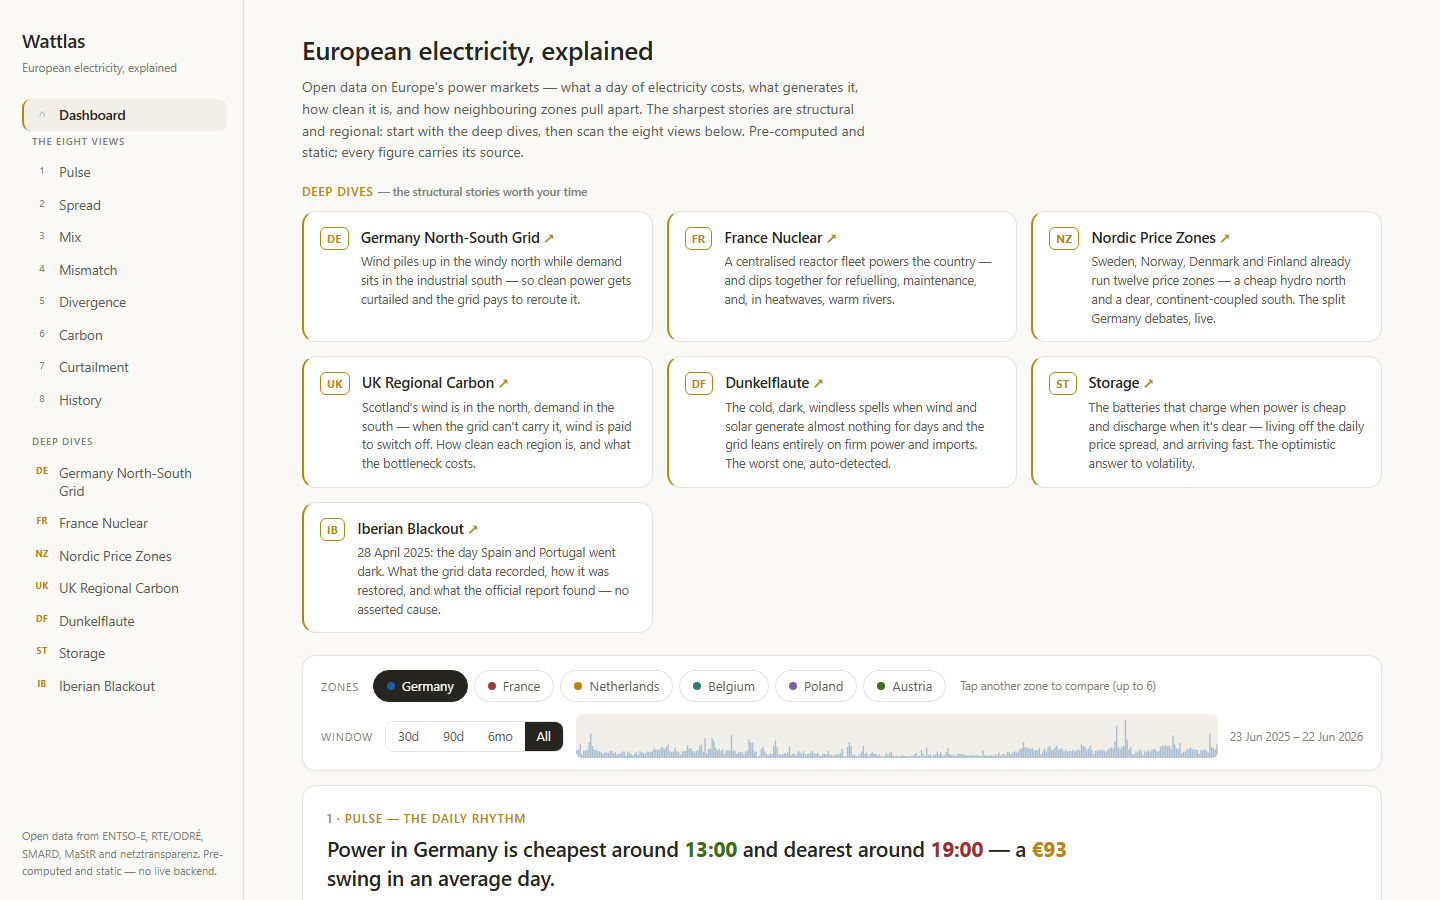
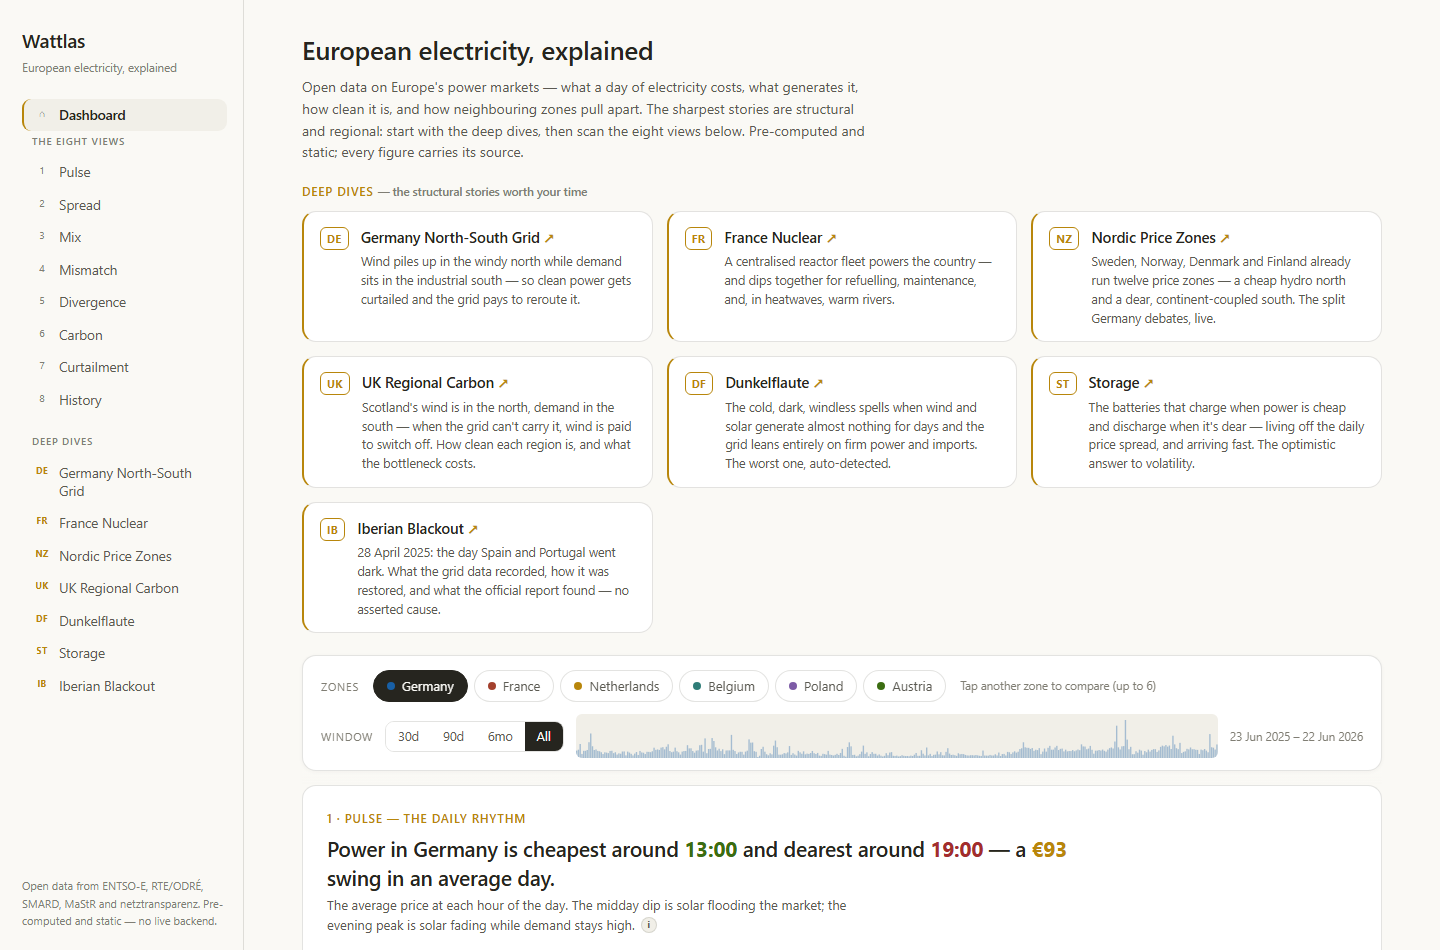
Showcase: remove phone mockups, emphasize multi-country, rework scene layouts
Refinements to frontend/showcase.html per review:
- Drop the phone-screen overlays (scenes 3, 4) and their CSS / mobile captures —
  the desktop frames now stand alone and larger.
- Scene 1 (Hook): add a framed dashboard hero (it had no image).
- Scene 3 (Product): lead on the dashboard's multi-country capability — a new
  capture with four bidding zones selected (Germany vs France, Netherlands, Austria)
  and the comparing panels in frame; copy updated to "compare up to six zones".
- Scene 2 (Problem): two-column layout (text + the zoom-levels diagram) for better
  use of the width.
- Scene 5 (Stories): two-column (compact trilogy cards + a larger map); fixed the
  cards stretching to fill the column.
- Scene 6 (Deep dives): larger frames so the three captures fill the space.

Re-verified: every scene fits one viewport at 1280x800 and 390x844, no horizontal
overflow, no console errors, no missing images; no banned words / em-dash sandwiches.
showcase_shots.py updated for the multi-zone capture.

diff --git a/frontend/showcase.html b/frontend/showcase.html
@@ -73,14 +73,15 @@
     display: flex; align-items: center; justify-content: center; text-align: center; padding: 18px;
     font-family: var(--mono); font-size: 11px; color: var(--hint);
     background: repeating-linear-gradient(45deg, var(--surface-2), var(--surface-2) 10px, #ece9e0 10px, #ece9e0 20px); }
-  .phone { flex: 0 0 auto; margin-left: -42px; margin-bottom: 8px; --ph-h: min(34vh, 290px);
-    border: 4px solid #d9d6cd; border-radius: 20px; overflow: hidden; background: #d9d6cd;
-    box-shadow: 0 8px 22px rgba(40,36,20,.14); }
-  .phone .shot { width: calc(var(--ph-h) * 0.46); height: var(--ph-h); border-radius: 14px; }
-  .smalls { display: flex; gap: 10px; justify-content: center; align-items: flex-start; min-width: 0; }
-  .smalls > div { flex: 1 1 0; min-width: 0; max-width: 300px; }
-  .smalls .frame { --shot-h: min(25vh, 178px); width: 100%; }
+  /* two-column scene layout (text + visual) — fills the width, stacks on mobile */
+  .two { display: grid; grid-template-columns: 1fr 1fr; gap: clamp(20px, 4vw, 46px); align-items: center; width: 100%; }
+  .two .col { min-width: 0; display: flex; flex-direction: column; gap: clamp(10px, 1.8vh, 16px); }
+  @media (max-width: 720px) { .two { grid-template-columns: 1fr; gap: 18px; } }
+  .smalls { display: flex; gap: 12px; justify-content: center; align-items: stretch; min-width: 0; }
+  .smalls > div { flex: 1 1 0; min-width: 0; max-width: 360px; }
+  .smalls .frame { --shot-h: min(36vh, 252px); width: 100%; }
   .smalls .frame .shot { width: 100%; }
+  .story-shot { --shot-h: min(40vh, 310px); }    /* scene 5 map: bigger desktop, smaller mobile (below) */
   .cap { font-size: 11px; color: var(--hint); text-align: center; margin-top: 4px; }
 
   /* CSS-only diagrams (no chart lib) */
@@ -129,16 +130,16 @@
 
   /* trilogy cards */
   .tri { display: flex; gap: 12px; flex-wrap: wrap; }
-  .tri .t { flex: 1 1 180px; min-width: 0; border: 0.5px solid var(--border); border-radius: 10px; padding: 12px 14px; background: var(--surface); }
+  .tri .t { flex: 0 0 auto; min-width: 0; border: 0.5px solid var(--border); border-radius: 10px; padding: 11px 14px; background: var(--surface); }
   .tri .t .badge { font-family: var(--mono); font-size: 10px; font-weight: 700; color: var(--accent); }
   .tri .t .k { font-weight: 600; font-size: 14px; margin: 3px 0 4px; }
   .tri .t .v { font-size: 12px; color: var(--muted); }
 
   @media (max-width: 760px) {
     .dots { display: none; }
-    .phone { display: none; }              /* phone overlay drops on mobile; desktop frame stays */
     .slide { padding: 52px 16px 28px; }
     .ledger .row { grid-template-columns: 1fr; gap: 3px; }
+    .story-shot { --shot-h: min(28vh, 205px); }
   }
 </style>
 </head>
@@ -151,12 +152,17 @@
 
   <!-- 01 HOOK -->
   <section class="slide" data-tag="HOOK">
-    <div class="inner" style="justify-content:center;gap:18px">
+    <div class="inner" style="justify-content:center;gap:clamp(10px,2.2vh,20px);align-items:center;text-align:center">
       <div class="eyebrow"><span class="num">01 / 12</span> · <span class="tag">HOOK</span></div>
       <h1 class="hero">Wattlas</h1>
-      <p class="lede" style="font-size:clamp(15px,2.2vw,22px)">European electricity, explained. Open data on how and when the price of power moves across the continent.</p>
-      <div class="lines"><div><b>Live</b>, static, and rebuilt every day from public sources.</div></div>
-      <div class="takeaway"><span class="tick"></span> A working tool you can open right now, not a pitch.</div>
+      <p class="lede" style="font-size:clamp(15px,2.2vw,21px);margin:0 auto">European electricity, explained. Open data on how and when the price of power moves across the continent, live and rebuilt every day.</p>
+      <div class="stage" style="margin-top:2px">
+        <div class="frame" style="--shot-h:min(42vh,330px)">
+          <div class="bar"><i style="background:#e2655a"></i><i style="background:#e6b54a"></i><i style="background:#6fae5f"></i><span class="u">sekond.github.io/Wattlas</span></div>
+          <div class="shot" data-label="Dashboard"><img alt="Wattlas dashboard" src="public/showcase/dashboard.png" onerror="this.closest('.shot').classList.add('ph')"></div>
+        </div>
+      </div>
+      <div class="takeaway" style="margin-top:0"><span class="tick"></span> A working tool you can open right now, not a pitch.</div>
     </div>
   </section>
 
@@ -164,17 +170,21 @@
   <section class="slide" data-tag="PROBLEM">
     <div class="inner">
       <div class="eyebrow"><span class="num">02 / 12</span> · <span class="tag">PROBLEM</span></div>
-      <h2 class="title">Electricity has no warehouse</h2>
-      <p class="lede">Its price swings hour to hour — cheap when the wind blows, dear when it doesn't. The data is open, but raw: <span class="tip" tabindex="0" data-tip="Every series is timezone-aware; twice a year a day has 23 or 25 hours at the DST switch.">timezone-aware</span>, gap-ridden, and spread across a dozen national APIs.</p>
-      <div class="stage" style="margin:4px 0">
-        <div class="zoom">
-          <div class="lvl"><span class="k">Country / bidding zone</span><span class="v">where most maps stop</span></div>
-          <div class="lvl on"><span class="k">Price zone</span><span class="v">SE1–4, NO1–5, DE-LU…</span></div>
-          <div class="lvl on"><span class="k">Region / Landkreis</span><span class="v">where the physics lives</span></div>
-          <div class="lvl on"><span class="k">Installation</span><span class="v">every wind & solar unit</span></div>
+      <div class="two">
+        <div class="col">
+          <h2 class="title">Electricity has no warehouse</h2>
+          <p class="lede">Its price swings hour to hour: cheap when the wind blows, dear when it doesn't. The data is open, but raw. It is <span class="tip" tabindex="0" data-tip="Every series is timezone-aware; twice a year a day has 23 or 25 hours at the DST switch.">timezone-aware</span>, gap-ridden, and spread across a dozen national APIs. And the well-known maps stop at the country line, where the physics begins.</p>
+          <div class="takeaway"><span class="tick"></span> The signal is public. Reading it honestly is the work.</div>
+        </div>
+        <div class="col">
+          <div class="zoom" style="max-width:none">
+            <div class="lvl"><span class="k">Country / bidding zone</span><span class="v">where most maps stop</span></div>
+            <div class="lvl on"><span class="k">Price zone</span><span class="v">SE1–4, NO1–5, DE-LU…</span></div>
+            <div class="lvl on"><span class="k">Region / Landkreis</span><span class="v">where the physics lives</span></div>
+            <div class="lvl on"><span class="k">Installation</span><span class="v">every wind & solar unit</span></div>
+          </div>
         </div>
       </div>
-      <div class="takeaway"><span class="tick"></span> The signal is public. Reading it honestly is the work.</div>
     </div>
   </section>
 
@@ -182,18 +192,15 @@
   <section class="slide" data-tag="PRODUCT">
     <div class="inner">
       <div class="eyebrow"><span class="num">03 / 12</span> · <span class="tag">PRODUCT</span></div>
-      <h2 class="title">One place to read European power</h2>
-      <p class="lede">Wattlas turns that open data into explorable views. <strong>Eight core views</strong> unify on one dashboard; <strong>seven deep dives</strong> go further, below the bidding-zone line.</p>
+      <h2 class="title">Compare countries, refine the picture</h2>
+      <p class="lede">Wattlas unifies <strong>eight core views</strong> on one dashboard; <strong>seven deep dives</strong> go further. Add up to <strong>six bidding zones</strong> and every panel re-computes, comparing them side by side. Here Germany sits against France, the Netherlands and Austria.</p>
       <div class="stage">
-        <div class="frame">
+        <div class="frame" style="--shot-h:min(45vh,370px)">
           <div class="bar"><i style="background:#e2655a"></i><i style="background:#e6b54a"></i><i style="background:#6fae5f"></i><span class="u">sekond.github.io/Wattlas</span></div>
-          <div class="shot" data-label="Dashboard"><img alt="Wattlas dashboard" src="public/showcase/dashboard.png" onerror="this.closest('.shot').classList.add('ph')"></div>
-        </div>
-        <div class="phone">
-          <div class="shot" data-label="Mobile"><img alt="Wattlas on mobile" src="public/showcase/dashboard-m.png" onerror="this.closest('.shot').classList.add('ph')"></div>
+          <div class="shot" data-label="Dashboard"><img alt="Wattlas dashboard comparing four bidding zones" src="public/showcase/dashboard-multi.png" onerror="this.closest('.shot').classList.add('ph')"></div>
         </div>
       </div>
-      <div class="takeaway"><span class="tick"></span> Pick a zone, choose a window, and every panel snaps to it.</div>
+      <div class="takeaway"><span class="tick"></span> One curve per zone, side by side: the comparison is the tool.</div>
     </div>
   </section>
 
@@ -204,11 +211,10 @@
       <h2 class="title">One view, one clear question</h2>
       <p class="lede">The <strong>Spread</strong> view measures the daily gap between the cheapest and dearest hour — about <span class="tip" tabindex="0" data-tip="Average daily Top-Bottom spread (TB1) over the last 12 months of DE-LU day-ahead prices.">€125/MWh</span> on average. Negative-price days are flagged; the battery-arbitrage figure is labelled an upper bound, not a promise.</p>
       <div class="stage">
-        <div class="frame">
+        <div class="frame" style="--shot-h:min(47vh,388px)">
           <div class="bar"><i style="background:#e2655a"></i><i style="background:#e6b54a"></i><i style="background:#6fae5f"></i><span class="u">/Wattlas/frontend/index.html</span></div>
           <div class="shot" data-label="Spread"><img alt="Spread view" src="public/showcase/spread.png" onerror="this.closest('.shot').classList.add('ph')"></div>
         </div>
-        <div class="phone"><div class="shot" data-label="Spread (mobile)"><img alt="Spread on mobile" src="public/showcase/spread-m.png" onerror="this.closest('.shot').classList.add('ph')"></div></div>
       </div>
       <div class="takeaway"><span class="tick"></span> A number you can act on, with its limits in plain sight.</div>
     </div>
@@ -218,20 +224,24 @@
   <section class="slide" data-tag="PROOF · STORIES">
     <div class="inner">
       <div class="eyebrow"><span class="num">05 / 12</span> · <span class="tag">PROOF · STORIES</span></div>
-      <h2 class="title">Three countries, one congested grid</h2>
-      <p class="lede">Renewable-rich regions a congested grid can't fully serve. Three market designs, shown side by side and cross-linked.</p>
-      <div class="tri">
-        <div class="t"><span class="badge">DE</span><div class="k">Germany</div><div class="v">One price; curtails northern wind it can't ship south.</div></div>
-        <div class="t"><span class="badge">NORDICS</span><div class="k">Split the zone</div><div class="v">A dozen price zones — a cheap hydro north, a dearer south.</div></div>
-        <div class="t"><span class="badge">GB</span><div class="k">Pay it down</div><div class="v">One price; pays Scottish wind to switch off (~£2bn/yr).</div></div>
-      </div>
-      <div class="stage" style="margin-top:2px">
-        <div class="frame" style="--shot-h:min(23vh,160px)">
-          <div class="bar"><i style="background:#e2655a"></i><i style="background:#e6b54a"></i><i style="background:#6fae5f"></i><span class="u">/frontend/nordic_zones.html</span></div>
-          <div class="shot" data-label="Nordic price zones"><img alt="Nordic price zones map" src="public/showcase/nordic.png" onerror="this.closest('.shot').classList.add('ph')"></div>
+      <div class="two">
+        <div class="col">
+          <h2 class="title">Three countries, one congested grid</h2>
+          <p class="lede">Renewable-rich regions a congested grid can't fully serve. Three market designs, side by side and cross-linked.</p>
+          <div class="tri" style="flex-direction:column;gap:9px">
+            <div class="t"><span class="badge">DE</span><div class="k">Germany</div><div class="v">One price; curtails northern wind it can't ship south.</div></div>
+            <div class="t"><span class="badge">NORDICS</span><div class="k">Split the zone</div><div class="v">A dozen price zones: a cheap hydro north, a dearer south.</div></div>
+            <div class="t"><span class="badge">GB</span><div class="k">Pay it down</div><div class="v">One price; pays Scottish wind to switch off (~£2bn/yr).</div></div>
+          </div>
+        </div>
+        <div class="col">
+          <div class="frame story-shot">
+            <div class="bar"><i style="background:#e2655a"></i><i style="background:#e6b54a"></i><i style="background:#6fae5f"></i><span class="u">/frontend/nordic_zones.html</span></div>
+            <div class="shot" data-label="Nordic price zones"><img alt="Nordic price zones map" src="public/showcase/nordic.png" onerror="this.closest('.shot').classList.add('ph')"></div>
+          </div>
+          <div class="takeaway" style="margin-top:14px"><span class="tick"></span> Same physics, three answers, shown together.</div>
         </div>
       </div>
-      <div class="takeaway"><span class="tick"></span> Same physics, three answers — the comparison is the point.</div>
     </div>
   </section>
 

diff --git a/frontend/showcase_shots.py b/frontend/showcase_shots.py
@@ -5,11 +5,12 @@ ON-DEMAND — Playwright is not a committed dependency:
     pip install playwright && python -m playwright install chromium
     python frontend/showcase_shots.py
 
-Serves the repo root on a local port, renders each page at ~display resolution
-(1440px desktop / 780px mobile, deviceScaleFactor 1 / 2 — a gentle downscale into
-the deck's frames, so thin lines and small text stay crisp), waits for the charts to
-draw, and writes stable PNGs to frontend/public/showcase/. The deck frames already
-reference these filenames and fall back to a styled placeholder if one is missing.
+Serves the repo root locally, renders each page at ~display resolution (1440px,
+deviceScaleFactor 1 — a gentle downscale into the deck's frames, so thin lines and
+small text stay crisp), waits for the charts to draw, and writes stable PNGs to
+frontend/public/showcase/. The multi-zone shot selects extra bidding zones and
+scrolls to the comparing panels so the deck can show the dashboard's headline
+multi-country capability.
 """
 from __future__ import annotations
 
@@ -21,20 +22,20 @@ from pathlib import Path
 
 from playwright.sync_api import sync_playwright
 
-ROOT = Path(__file__).resolve().parent.parent          # repo root
+ROOT = Path(__file__).resolve().parent.parent
 OUT = ROOT / "frontend" / "public" / "showcase"
 PORT = 8099
 
-# (page path, output filename, viewport width, device_scale_factor, viewport height)
 SHOTS = [
-    ("frontend/dashboard.html",        "dashboard.png",    1440, 1, 900),
-    ("frontend/dashboard.html",        "dashboard-m.png",   780, 2, 1500),
-    ("frontend/index.html",            "spread.png",       1440, 1, 900),
-    ("frontend/index.html",            "spread-m.png",      780, 2, 1500),
-    ("frontend/nordic_zones.html",     "nordic.png",       1440, 1, 900),
-    ("frontend/dunkelflaute.html",     "dunkelflaute.png", 1440, 1, 900),
-    ("frontend/storage.html",          "storage.png",      1440, 1, 900),
-    ("frontend/iberian_blackout.html", "iberian.png",      1440, 1, 900),
+    {"path": "frontend/dashboard.html", "out": "dashboard.png", "h": 950},
+    # multi-country: add three zones to Germany, then frame the comparing control bar + panels
+    {"path": "frontend/dashboard.html", "out": "dashboard-multi.png", "h": 950,
+     "clicks": ["FR", "NL", "AT"], "scrollto": ".ctrl"},
+    {"path": "frontend/index.html", "out": "spread.png", "h": 900},
+    {"path": "frontend/nordic_zones.html", "out": "nordic.png", "h": 900},
+    {"path": "frontend/dunkelflaute.html", "out": "dunkelflaute.png", "h": 900},
+    {"path": "frontend/storage.html", "out": "storage.png", "h": 900},
+    {"path": "frontend/iberian_blackout.html", "out": "iberian.png", "h": 900},
 ]
 
 
@@ -48,14 +49,20 @@ def main() -> None:
 
     with sync_playwright() as p:
         browser = p.chromium.launch()
-        for path, fname, w, dsf, h in SHOTS:
-            ctx = browser.new_context(viewport={"width": w, "height": h}, device_scale_factor=dsf)
+        for s in SHOTS:
+            ctx = browser.new_context(viewport={"width": 1440, "height": s["h"]}, device_scale_factor=1)
             page = ctx.new_page()
-            page.goto(f"http://127.0.0.1:{PORT}/{path}", wait_until="networkidle")
-            page.wait_for_timeout(1800)            # let Chart.js / D3 finish drawing
-            page.screenshot(path=str(OUT / fname), full_page=False)   # the top fold, crisp
+            page.goto(f"http://127.0.0.1:{PORT}/{s['path']}", wait_until="networkidle")
+            page.wait_for_timeout(1800)                      # let Chart.js / D3 finish
+            for z in s.get("clicks", []):
+                page.click(f'.zchip[data-z="{z}"]', timeout=4000)
+                page.wait_for_timeout(350)
+            if s.get("scrollto"):
+                page.eval_on_selector(s["scrollto"], "el => el.scrollIntoView({block:'start'})")
+                page.wait_for_timeout(1400)                  # re-render the comparing panels
+            page.screenshot(path=str(OUT / s["out"]), full_page=False)
             ctx.close()
-            print("captured", fname)
+            print("captured", s["out"])
         browser.close()
     httpd.shutdown()
     print("done ->", OUT)